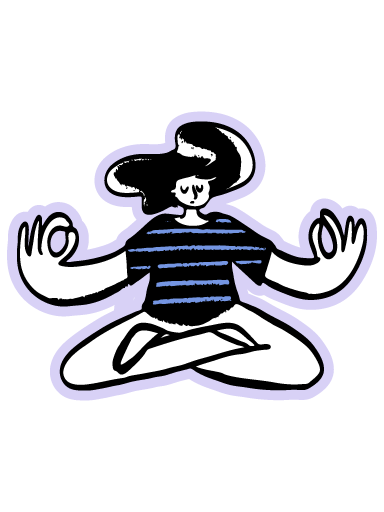
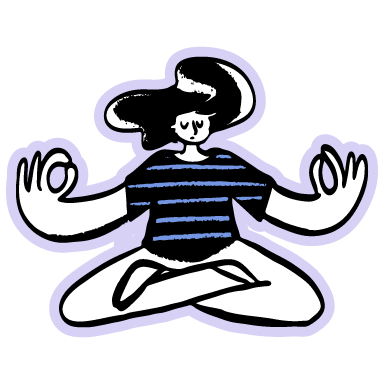
Recreate contact page

Changed region(s): [[0.0, 0.125, 1.0, 0.875]]

diff --git a/src/new-components/sections/contact.tsx b/src/new-components/sections/contact.tsx
@@ -1,0 +1,162 @@
+import { useMemo } from 'react';
+import tw from 'twin.macro';
+
+import { SectionHeading } from '~/new-components/atoms/complex';
+import { Link, CenteredSection, Image } from '~/new-components/atoms/simple';
+import { Component } from '~/types';
+import getRandomItemFrom from '~/utils/get-random-item';
+
+const Grid = tw.div`
+  grid
+  grid-cols-1
+  gap-24
+  mb-10
+
+  md:(grid-template-columns[55% 1fr])
+`;
+
+const ContactOptionsContainer = tw.div`
+  mt-16
+  flex
+  flex-col
+  items-start
+  gap-8
+`;
+
+const EmailLink = tw(Link)`
+  color[#d33c30] hocus:(color[#a42f25])
+  dark:(color[#ee695d] hocus:(color[#ea4335]))
+`;
+
+const TwitterLink = tw(Link)`
+  color[#1a91da] hocus:(color[#1471a9])
+  dark:(color[#1da1f2] hocus:(color[#1781c2]))
+`;
+
+const TelegramLink = tw(Link)`
+  color[#007ab8] hocus:(color[#005f8f])
+  dark:(color[#33a0d6] hocus:(color[#0088cc]))
+`;
+
+const DiscordLink = tw(Link)`
+  color[#5865f2] hocus:(color[#4651c2])
+  dark:(color[#8a93f6] hocus:(color[#6974f3]))
+`;
+
+type ContactImage = {
+  key: string;
+  alt: string;
+};
+
+const allContactImages: Array<ContactImage> = [
+  {
+    key: '0',
+    alt: 'Illustration of a person within a box',
+  },
+  {
+    key: '1',
+    alt: 'Illustration of a person dancing',
+  },
+  {
+    key: '2',
+    alt: 'Illustration of a person meditating',
+  },
+  {
+    key: '3',
+    alt: 'Illustration of a person sitting on the floor',
+  },
+  {
+    key: '4',
+    alt: 'Illustration of a person reading a book',
+  },
+  {
+    key: '5',
+    alt: 'Illustration of a person listening to music',
+  },
+  {
+    key: '6',
+    alt: 'Illustration of a person walking',
+  },
+  {
+    key: '7',
+    alt: 'Illustration of a person walking like a zombie',
+  },
+  {
+    key: '8',
+    alt: 'Illustration of a person taking a selfie with a t-shirt that says hi',
+  },
+];
+
+export const Contact: Component = () => {
+  const contactImage = useMemo<ContactImage>(() => {
+    return getRandomItemFrom(allContactImages);
+  }, []);
+
+  return (
+    <CenteredSection id={'contact'}>
+      <SectionHeading
+        size={'3'}
+        shadowColor={'brand'}
+        gradientColor={'brand-to-blue'}
+        emoji={'📬'}
+      >
+        Contact
+      </SectionHeading>
+      <Grid>
+        <ContactOptionsContainer>
+          <p>
+            I&apos;m always open for a conversation, so please don&apos;t
+            hesitate contacting me!
+          </p>
+          <p>There&apos;s a few ways you can get it touch:</p>
+          <ul tw={'list-disc leading-loose padding-inline-start[1.6rem]'}>
+            <li>
+              <EmailLink
+                title={'Link to compose an email to Jahir'}
+                href={'mailto:hola@jahir.dev?subject=Hi%20Jahir!'}
+              >
+                Email
+              </EmailLink>
+            </li>
+            <li>
+              <TwitterLink
+                title={'Link to compose a Twitter direct message for Jahir'}
+                href={'https://jahir.xyz/twitterdm'}
+              >
+                Twitter Direct Messages
+              </TwitterLink>
+            </li>
+            <li>
+              <TelegramLink
+                title={"Link to Jahir's Telegram profile"}
+                href={'https://jahir.xyz/tlgrm'}
+              >
+                Telegram
+              </TelegramLink>
+            </li>
+          </ul>
+          <p>
+            Although if it&apos;s related to{' '}
+            <Link title={'Link to dashbud page'} href={'https://dashbud.dev'}>
+              my dashboards
+            </Link>
+            , I would rather you{' '}
+            <DiscordLink
+              title={'Link to dashboards Discord server'}
+              href={'https://discordapp.com/invite/78h7xgj'}
+            >
+              send a message on Discord
+            </DiscordLink>
+          </p>
+        </ContactOptionsContainer>
+        <Image
+          src={`/static/images/contact/${contactImage.key}.png`}
+          alt={contactImage.alt}
+          size={384}
+          layout={'responsive'}
+          tw={'[>img]:(max-width[320px] mx-auto md:(max-w-unset))'}
+        />
+      </Grid>
+    </CenteredSection>
+  );
+};

diff --git a/src/pages/contact.tsx b/src/pages/contact.tsx
@@ -1,30 +1,17 @@
-import { GetStaticProps } from 'next';
 import { FC } from 'react';
 
 import { Page } from '~/new-components/blocks';
-import { Contact } from '~/sections/contact';
+import { Contact } from '~/new-components/sections';
 
-interface ContactPageProps {
-  reCaptchaKey?: string;
-}
-
-const ContactPage: FC<ContactPageProps> = (props) => {
+const ContactPage: FC = () => {
   return (
     <Page
       title={'Contact ~ Jahir Fiquitiva 💎'}
       exactUrl={'https://jahir.dev/contact'}
     >
-      <Contact reCaptchaKey={props.reCaptchaKey} />
+      <Contact />
     </Page>
   );
 };
 
 export default ContactPage;
-
-export const getStaticProps: GetStaticProps = async () => {
-  return {
-    props: {
-      reCaptchaKey: process.env.RECAPTCHA_KEY || '0',
-    },
-  };
-};

diff --git a/src/utils/get-random-item.ts b/src/utils/get-random-item.ts
@@ -1,4 +1,4 @@
-const getRandomItemFrom = <T extends unknown>(items: T[]): T => {
+const getRandomItemFrom = <T>(items: T[]): T => {
   return items[Math.floor(Math.random() * items.length)];
 };
 

diff --git a/src/new-components/sections/index.ts b/src/new-components/sections/index.ts
@@ -1,3 +1,4 @@
 export * from './home/index';
 export * from './blog';
 export * from './donate/index';
+export * from './contact';
